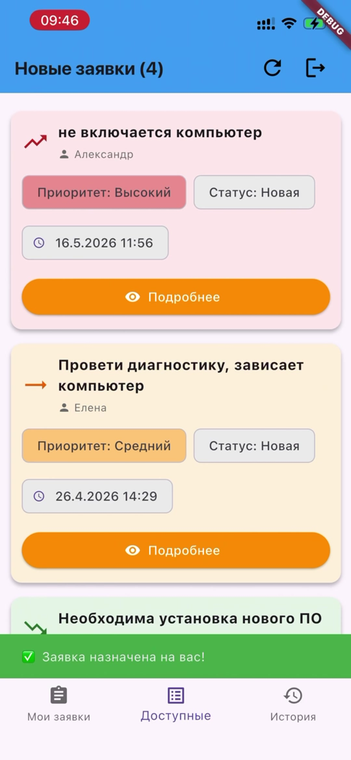
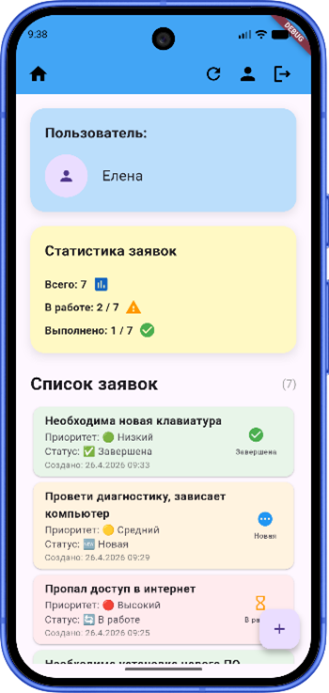
Updade readme

diff --git a/src/lib/screens/staff/request_detail_screen.dart b/src/lib/screens/staff/request_detail_screen.dart
@@ -79,7 +79,7 @@ class _RequestDetailScreenState extends State<RequestDetailScreen> {
         child: Column(
           crossAxisAlignment: CrossAxisAlignment.start,
           children: [
-            // Priority Card
+            
             Container(
               width: double.infinity,
               padding: const EdgeInsets.all(16),
@@ -144,7 +144,6 @@ class _RequestDetailScreenState extends State<RequestDetailScreen> {
 
             const SizedBox(height: 20),
 
-            // Status Card
             Container(
               width: double.infinity,
               padding: const EdgeInsets.all(16),
@@ -198,7 +197,6 @@ class _RequestDetailScreenState extends State<RequestDetailScreen> {
 
             const SizedBox(height: 20),
 
-            // Request Content
             Card(
               child: Padding(
                 padding: const EdgeInsets.all(16),
@@ -242,7 +240,6 @@ class _RequestDetailScreenState extends State<RequestDetailScreen> {
                     ),
                     const SizedBox(height: 12),
 
-                    // Username
                     Row(
                       children: [
                         CircleAvatar(
@@ -277,7 +274,6 @@ class _RequestDetailScreenState extends State<RequestDetailScreen> {
 
                     const SizedBox(height: 12),
 
-                    // Email
                     Row(
                       children: [
                         CircleAvatar(
@@ -420,7 +416,6 @@ class _RequestDetailScreenState extends State<RequestDetailScreen> {
 
             const SizedBox(height: 20),
 
-            // Time Info
             Card(
               child: Padding(
                 padding: const EdgeInsets.all(16),

diff --git a/src/lib/screens/users/profile_screen.dart b/src/lib/screens/users/profile_screen.dart
@@ -169,7 +169,6 @@ class _ProfileScreenState extends State<ProfileScreen> {
               ),
               SizedBox(height: 20),
 
-              // Email (только для чтения)
               Card(
                 child: Padding(
                   padding: EdgeInsets.all(16),

diff --git a/README.md b/README.md
@@ -1,6 +1,6 @@
 <div align="center">
 
-# 🛠️ HelpDesk Mobile — Приложение для службы технической поддержки
+# 🛠️ HelpDesk — Приложение для службы технической поддержки
 
 **Кроссплатформенное мобильное приложение для автоматизации сбора, обработки и отслеживания заявок технической поддержки**
 
@@ -20,23 +20,11 @@
 
 ## 📖 О проекте
 
-**HelpDesk Mobile** — единое кроссплатформенное приложение, которое заменяет разрозненный учёт заявок технической поддержки (звонки, чаты, таблицы) на прозрачную цифровую систему с ролевым доступом и синхронизацией в реальном времени.
+**HelpDesk** — единое кроссплатформенное приложение, которое заменяет разрозненный учёт заявок технической поддержки (звонки, чаты, таблицы) на прозрачную цифровую систему с ролевым доступом и синхронизацией в реальном времени.
 
 Проект решает типичные проблемы «ручной» техподдержки: непрозрачность статусов заявок для пользователей, потерю обращений, отсутствие единой очереди у специалистов и невозможность контролировать нагрузку. Все данные хранятся в облаке и мгновенно синхронизируются между устройствами.
 
 > Приложение разработано как выпускная квалификационная работа на примере процессов технической поддержки крупной розничной компании и доведено до состояния, готового к внедрению.
-
----
-
-## 📱 Скриншоты
-
-<div align="center">
-
-| Авторизация | Список заявок | Создание заявки | Детали заявки | Панель администратора |
-|:---:|:---:|:---:|:---:|:---:|
-| <img src="screens/01_login.png" width="180"/> | <img src="screens/02_requests.png" width="180"/> | <img src="screens/03_create.png" width="180"/> | <img src="screens/04_detail.png" width="180"/> | <img src="screens/05_admin.png" width="180"/> |
-
-</div>
 
 ---
 
@@ -58,6 +46,110 @@
 - ⚙️ Изменение приоритета и принудительное назначение исполнителя
 - 👥 Полное управление учётными записями: создание, изменение, удаление
 - 🔐 Полный доступ ко всем функциям системы
+
+---
+
+## 📱 Процесс
+
+Экран авторизации `LoginScreen.dart` реализует вход пользователя в систему через Firebase Authentication.
+
+<div align="center">
+  <img src="screens/01_login.png" width="200"/>
+  <br>
+  <sub><b>Экран авторизации</b></sub>
+</div>
+
+<br>
+
+Главный экран `HomeScreen.dart` для пользователя — это место, где сотрудник видит все свои заявки и может отслеживать их статус.
+
+<div align="center">
+  <img src="screens/02_requests.png" width="200"/>
+  <br>
+  <sub><b>Экран пользователя</b></sub>
+</div>
+
+<br>
+
+Пользователь может перейти в свой профиль для просмотра и изменения информации при необходимости.
+
+<div align="center">
+  <img src="screens/03_profile.png" width="200"/>
+  <br>
+  <sub><b>Профиль пользователя</b></sub>
+</div>
+
+<br>
+
+Когда пользователю необходимо создать заявку, он может нажать на соответствующую кнопку и перейти на экран создания заявки.
+
+<div align="center">
+  <img src="screens/04_create.png" width="200"/>
+  <br>
+  <sub><b>Создание заявки</b></sub>
+</div>
+
+<br>
+
+На экране сотрудника поддержки отображаются все заявки, поступившие в систему от всех пользователей.
+
+<div align="center">
+  <img src="screens/05_admin.png" width="200"/>
+  <br>
+  <sub><b>Экран сотрудника поддержки</b></sub>
+</div>
+
+<br>
+
+Сотрудник может кликнуть на любую заявку в очереди и перейти на экран с подробной информацией о ней.
+
+<div align="center">
+  <img src="screens/06_detail.png" width="200"/>
+  <br>
+  <sub><b>Экран заявки</b></sub>
+</div>
+
+<br>
+
+На экране администратора отображается сводная статистика всех заявок: сколько всего когда-либо создано, количество выполненных и в работе. Также доступна очередь неназначенных заявок.
+
+<div align="center">
+  <img src="screens/07_admin.png" width="200"/>
+  <br>
+  <sub><b>Экран администратора</b></sub>
+</div>
+
+<br>
+
+Помимо стандартного поиска по словам, реализован поиск по приоритету: «Низкий», «Средний», «Высокий».
+
+<div align="center">
+  <img src="screens/08_search.png" width="200"/>
+  <br>
+  <sub><b>Поиск по приоритету</b></sub>
+</div>
+
+<br>
+
+В отличие от других ролей, у администратора есть возможность изменить приоритет (если важность проблемы оценена неверно) и назначить исполнителя от своего лица.
+
+<div align="center">
+  <img src="screens/09_detail.png" width="200"/>
+  <br>
+  <sub><b>Приоритет и назначение</b></sub>
+</div>
+
+<br>
+
+На экране управления сотрудниками администратор может создать учётную запись сотрудника технической поддержки, а также удалить существующие.
+
+<div align="center">
+  <img src="screens/10_users.png" width="200"/>
+  <br>
+  <sub><b>Управление пользователями</b></sub>
+</div>
+
+
 
 ---
 
@@ -103,7 +195,6 @@
 | **База данных** | Cloud Firestore | NoSQL-хранилище с синхронизацией в реальном времени |
 | **Хостинг изображений** | ImgBB | Хранение фотографий, прикреплённых к заявкам |
 
-**Почему Flutter?** Единый графический движок Skia обеспечивает стабильную производительность (60–120 FPS) и единообразие интерфейса на всех платформах, а одна кодовая база сокращает время и стоимость разработки и упрощает сопровождение.
 
 ---
 
@@ -134,13 +225,11 @@ flutter run
 3. Добавьте конфигурацию через `flutterfire configure` (создаст `firebase_options.dart`)
 4. Укажите свой ключ **ImgBB API** в конфигурации приложения
 
-> ⚠️ Файлы с ключами (`firebase_options.dart`, `google-services.json`, ключ ImgBB) не должны попадать в публичный репозиторий — добавьте их в `.gitignore`.
-
 ---
 
 ## 🎥 Демонстрация
 
-Видеодемонстрация работы приложения доступна в репозитории / релизах.
+Видеодемонстрация работы приложения: https://drive.google.com/file/d/1Npfk9vNbDnmZdgzvvBdAC1YRATC91FVC/view?usp=sharing
 
 ---
 
@@ -152,12 +241,4 @@ flutter run
 
 ## 👨💻 Автор
 
-**Alehandro Antonov** — [@AlehandroAntonov](https://github.com/AlehandroAntonov)
-
----
-
-<div align="center">
-
-⭐ Если проект оказался полезен — поставьте звезду!
-
-</div>
+[@AlehandroAntonov](https://github.com/AlehandroAntonov)